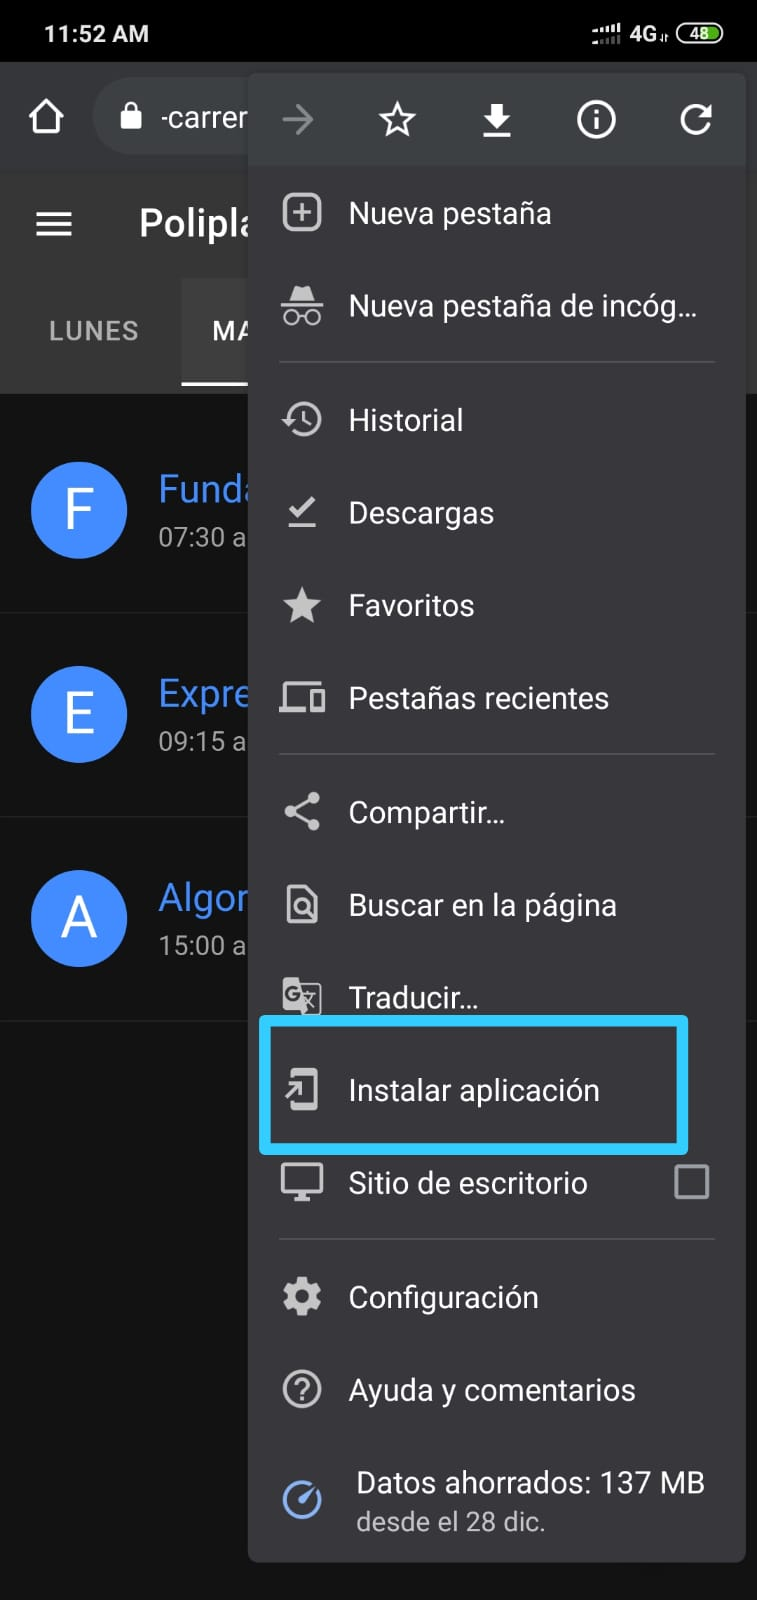
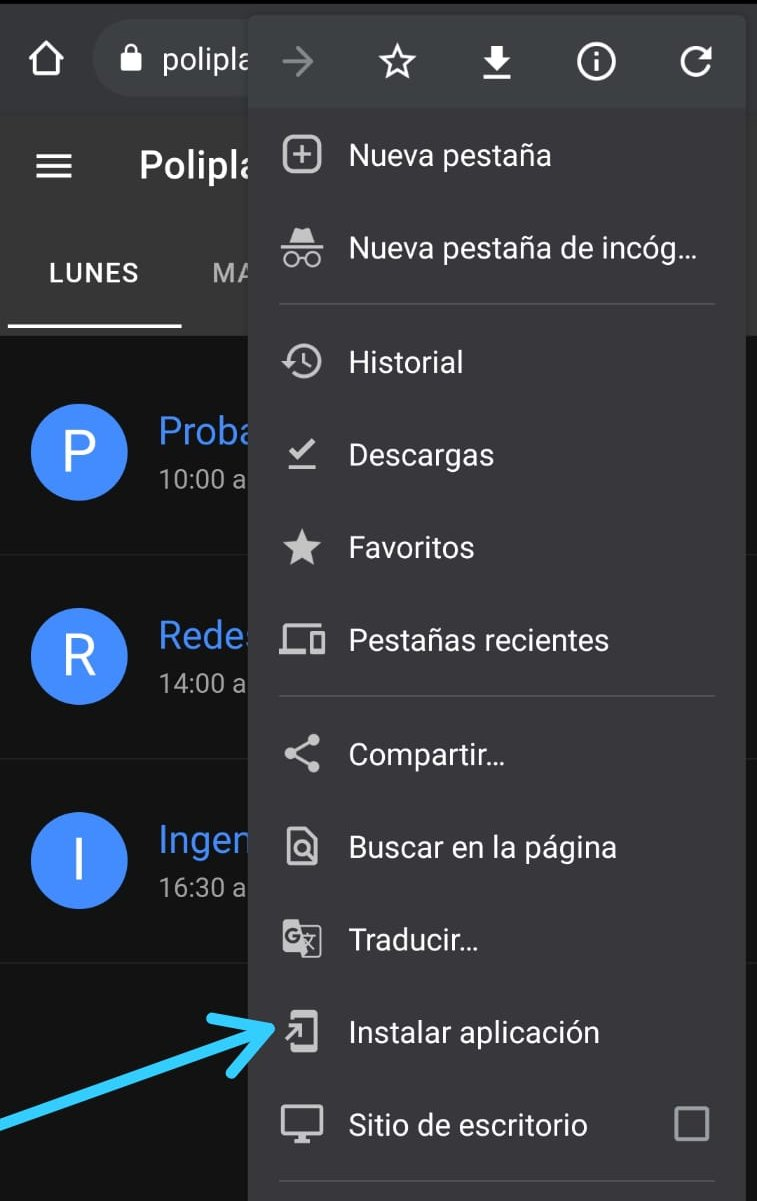
added preflight page

diff --git a/src/app/pages/preflight/preflight.page.html b/src/app/pages/preflight/preflight.page.html
@@ -1,43 +1,59 @@
 <ion-content padding *ngIf="displayPage">
   <ion-slides pager="true" scrollbar="false" [options]="slideOpts">
     <ion-slide>
-        <img src="assets/images/preflight_slider/intro.png">
-        <H1>Welcome</H1>
-        <P>Since you're on a mobile device, we recommend that you activate our mobile-friendly configuration.</P>
-    </ion-slide><ion-slide *ngIf="isIOS">
+      <img src="assets/images/intro.png">
+      <H1>Bienvenido!!!</H1>
+      <P>
+        Dado que está en la versión web, le recomendamos instalar la aplicación.
+        En esta guia te enseñamos como hacerlo ;) .
+        Deslice a la derecha para continuar.
+      </P>
+    </ion-slide>
+    <ion-slide *ngIf="isIOS">
       <img src="assets/images/preflight_slider/ios_1.png">
       <H1>Select sharing button</H1>
       <P>Press the sharing icon at the bottom of your web browser's window.</P>
-    </ion-slide><ion-slide *ngIf="isIOS">
-        <img src="assets/images/preflight_slider/ios_2.png">
-        <H1>Add to Home Screen</H1>
-        <P>Scroll the icons until you find the option <strong>Add to Home Screen</strong>.</P>
-    </ion-slide><ion-slide *ngIf="isIOS">
-        <img src="assets/images/preflight_slider/ios_3.png">
-        <H1>Press Add</H1>
-        <P>Press <strong>Add</strong> to save the application to your desktop.</P>
-    </ion-slide><ion-slide *ngIf="isIOS">
-        <img src="assets/images/preflight_slider/ios_4.png">
-        <H1>Run from Home Screen</H1>
-        <P>The application will now be available from your home screen.
-          To run from your web browser, press Continue.
-        </P>
-  
-        <ion-button shape="round">Continue</ion-button>
-    </ion-slide><ion-slide *ngIf="isAndroid">
-      <img src="assets/images/android_1.jpeg">
-      <H1>Select options button</H1>
-      <P>Select the options button, then choose <strong>Add to Home Screen</strong>.
-      </P>
-    </ion-slide><ion-slide *ngIf="isAndroid">
-      <img src="assets/images/android_2.jpeg">
+    </ion-slide>
+    <ion-slide *ngIf="isIOS">
+      <img src="assets/images/preflight_slider/ios_2.png">
+      <H1>Add to Home Screen</H1>
+      <P>Scroll the icons until you find the option <strong>Add to Home Screen</strong>.</P>
+    </ion-slide>
+    <ion-slide *ngIf="isIOS">
+      <img src="assets/images/preflight_slider/ios_3.png">
       <H1>Press Add</H1>
-      <P>Press the <strong>Add</strong> button to add the application to your home screen.
-      </P>
-    </ion-slide><ion-slide *ngIf="isAndroid">
-      <img src="assets/images/android_3.jpeg">
+      <P>Press <strong>Add</strong> to save the application to your desktop.</P>
+    </ion-slide>
+    <ion-slide *ngIf="isIOS">
+      <img src="assets/images/preflight_slider/ios_4.png">
       <H1>Run from Home Screen</H1>
       <P>The application will now be available from your home screen.
         To run from your web browser, press Continue.
-      </P><ion-button shape="round" >Continue</ion-button>
-  </ion-slide></ion-slides></ion-content>
+      </P>
+      <ion-button shape="round">Continue</ion-button>
+    </ion-slide>
+    <ion-slide *ngIf="isAndroid">
+      <img src="assets/images/android_1.jpeg">
+      <H1>Abrir menú de opciones</H1>
+      <P>Toca el menú de opciones de tu navegador.</P>
+    </ion-slide>
+    <ion-slide *ngIf="isAndroid">
+      <img src="assets/images/android_2.jpeg">
+      <H1>Instalar App</H1>
+      <P>Toca el boton de <strong>Instalar aplicación</strong> para añadir la app a tu cajón de aplicaciones.
+      </P>
+    </ion-slide>
+    <ion-slide *ngIf="isAndroid">
+      <img src="assets/images/android_3.jpeg">
+      <H1>Confirmar la instalación</H1>
+      <P>Simplemente toca en la opción <strong>Instalar</strong>.</P>
+    </ion-slide>
+    <ion-slide *ngIf="isAndroid">
+      <img src="assets/images/android_4.jpeg">
+      <H1>Ejecuta la App desde tu Home Screen</H1>
+      <P>La aplicación ahora esta disponible en tu cajón de aplicaciones.
+        Abrelo desde ahí o presiona en continuar para seguir usando la app desde el navegador.
+      </P>
+      <ion-button shape="round" routerDirection='root' routerLink="/inicio">Continuar</ion-button>
+  </ion-slide>
+</ion-slides></ion-content>

diff --git a/src/app/app.component.ts b/src/app/app.component.ts
@@ -1,6 +1,6 @@
 import { Component } from '@angular/core';
 
-import { Platform } from '@ionic/angular';
+import { NavController, Platform } from '@ionic/angular';
 import { SplashScreen } from '@ionic-native/splash-screen/ngx';
 import { StatusBar } from '@ionic-native/status-bar/ngx';
 import { SwUpdate } from '@angular/service-worker';
@@ -15,9 +15,41 @@ export class AppComponent {
     private platform: Platform,
     private splashScreen: SplashScreen,
     private statusBar: StatusBar,
-    public updates:SwUpdate
+    public updates:SwUpdate,
+    private navCtrl: NavController,
   ) {
     this.initializeApp();
+
+    // No tested
+    this.updateAppAuto(updates);
+
+    this.preflight();
+  }
+
+
+  preflight() {
+    const isMobile =()=> { return this.platform.is('mobile'); }
+    const isPWA =()=> { return this.platform.is ('pwa'); }
+    const isTablet =()=> { return this.platform.is ('tablet'); } 
+    if (!(!isMobile() || isPWA() || isTablet())) {
+      let nroVisitas = window.localStorage.visitas; 
+      console.log('hola');
+      if(nroVisitas=="undefined" || nroVisitas==10){
+        
+        window.localStorage.visitas=0;
+        this.navCtrl.navigateForward('preflight')
+      }
+      else
+        window.localStorage.visitas++;
+
+    }
+  }
+  updateAppAuto(updates: SwUpdate) {
+    const updateApp = ()=>{
+      document.location.reload();
+      console.log("The app is updating right now");
+    }
+
     updates.available.subscribe(event => {
       console.log('current version is', event.current);
       console.log('available version is', event.available);
@@ -28,15 +60,10 @@ export class AppComponent {
     });
 
     updates.available.subscribe(event => {
-      updates.activateUpdate().then(() => this.updateApp());
+      updates.activateUpdate().then(() => updateApp());
     });
   }
 
-  updateApp(){
-    document.location.reload();
-    console.log("The app is updating right now");
-
-  }
   initializeApp() {
     this.platform.ready().then(() => {
       this.statusBar.styleDefault();

diff --git a/src/app/pages/inicio/inicio.page.ts b/src/app/pages/inicio/inicio.page.ts
@@ -1,5 +1,5 @@
 import { Component, OnInit, ViewChild } from '@angular/core';
-import { IonContent, IonSlides, ModalController, NavController } from '@ionic/angular';
+import { IonContent, IonSlides, ModalController, NavController, Platform } from '@ionic/angular';
 import { DataService } from 'src/app/servicios/armar-horario/data.service';
 
 @Component({
@@ -13,11 +13,29 @@ export class InicioPage implements OnInit {
     public modalController: ModalController, 
     public data: DataService,
     private navCtrl:NavController,
+    private platform: Platform
   ) {}
 
   ngOnInit() {
     this.init()
+    // this.preflight()
     
+  }
+  preflight() {
+    const isMobile =()=> { return this.platform.is('mobile'); }
+    const isPWA =()=> { return this.platform.is ('pwa'); }
+    const isTablet =()=> { return this.platform.is ('tablet'); } 
+    if (!isMobile() || isPWA() || isTablet()) {
+      let nroVisitas = window.localStorage.visitas;
+      if(nroVisitas=="undefined" || nroVisitas==10){
+        console.log('hola');
+        
+        window.localStorage.visitas=0;
+        this.navCtrl.navigateForward('preflight')
+      }
+      else
+        window.localStorage.visitas++;
+    }
   }
   ionViewDidEnter(){
     
@@ -29,8 +47,9 @@ export class InicioPage implements OnInit {
       this.data.remplazarDatos(JSON.parse(datos))
       // console.log(this.data.toCalendar);
     }else{
-      if( this.data.toCalendar.length == 0 )
-        this.navCtrl.navigateForward('armar-horario')
+      this.data = new DataService();
+      // if( this.data.toCalendar.length == 0 )
+      //   this.navCtrl.navigateForward('armar-horario')
     }
     // console.log(this.data)
 

diff --git a/src/app/componentes/menu/menu.component.ts b/src/app/componentes/menu/menu.component.ts
@@ -1,5 +1,5 @@
 import { Component, OnInit } from '@angular/core';
-import { MenuController } from '@ionic/angular';
+import { MenuController, Platform } from '@ionic/angular';
 import { Router } from '@angular/router';
 
 @Component({
@@ -9,7 +9,25 @@ import { Router } from '@angular/router';
 })
 export class MenuComponent implements OnInit {
 
-  constructor(private menu: MenuController, private router: Router) { }
+  displayPage: boolean = true;  
+
+  constructor(private menu: MenuController, private platform: Platform, private router: Router) {
+    this.guiaDeInstalacion();
+  }
+  guiaDeInstalacion() {
+    
+    const isMobile =()=> { return this.platform.is('mobile'); }
+    const isPWA =()=> { return this.platform.is ('pwa'); }
+    const isTablet =()=> { return this.platform.is ('tablet'); } 
+    if (!isMobile() || isPWA() || isTablet()) {
+      this.displayPage = false;
+    }
+
+  }
+
+  actualizar(){
+    window.location.reload();
+  }
 
   // onClick(dir: string) {
   //   console.log('cerrado', this.menu.getOpen());

diff --git a/src/app/componentes/menu/menu.component.html b/src/app/componentes/menu/menu.component.html
@@ -1,7 +1,8 @@
 <ion-menu side="start" menuId="first" contentId="main">
-  <ion-header>
-    <ion-toolbar color="primary">
+  <ion-header id="header">
+    <ion-toolbar>
       <ion-title>Poliplanner</ion-title>
+      <ion-icon name="sync" slot="end" class="ion-padding" (click)="actualizar()"></ion-icon>
     </ion-toolbar>
   </ion-header>
 
@@ -25,6 +26,11 @@
       <ion-item button routerDirection='root' routerLink="/prueba">
         <ion-icon name="calculator" slot="start"></ion-icon>
         <ion-label>Calculadora</ion-label>
+      </ion-item>
+
+      <ion-item *ngIf="displayPage" button routerDirection='root' routerLink="/preflight">
+        <ion-icon name="help" slot="start"></ion-icon>
+        <ion-label>Guia de instalación</ion-label>
       </ion-item>
 
     </ion-list>

diff --git a/src/app/pages/preflight/preflight.page.scss b/src/app/pages/preflight/preflight.page.scss
@@ -1,8 +1,9 @@
 ion-slide {
     height: 95vh;
     flex-direction: column;
-}ion-img {
-    max-width: 0.2vw;
-    max-height: 0.2vh;
+}
+.swiper-slide img {
+    max-width: 50vw;
+    max-height: 50vh;
     overflow: hidden;
 }

diff --git a/src/app/componentes/menu/menu.component.scss b/src/app/componentes/menu/menu.component.scss
@@ -1,0 +1,7 @@
+ion-toolbar{
+    --background: var(--ion-color-header);
+}
+
+ion-title{
+    --color: white;
+}
